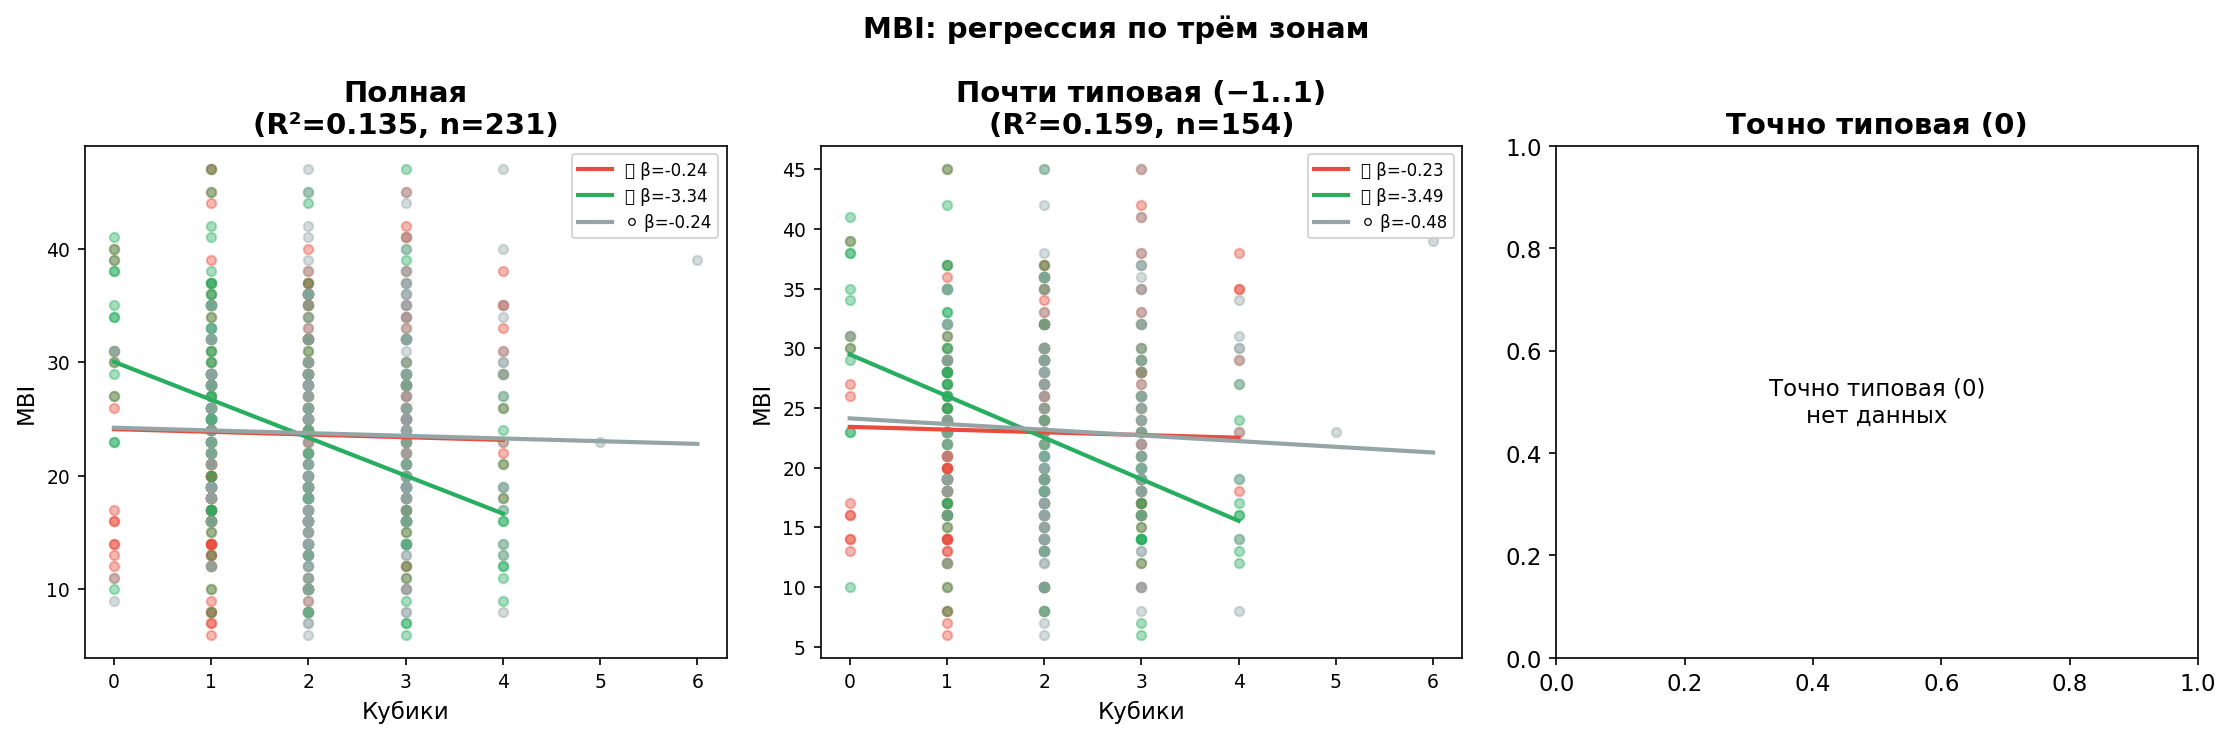
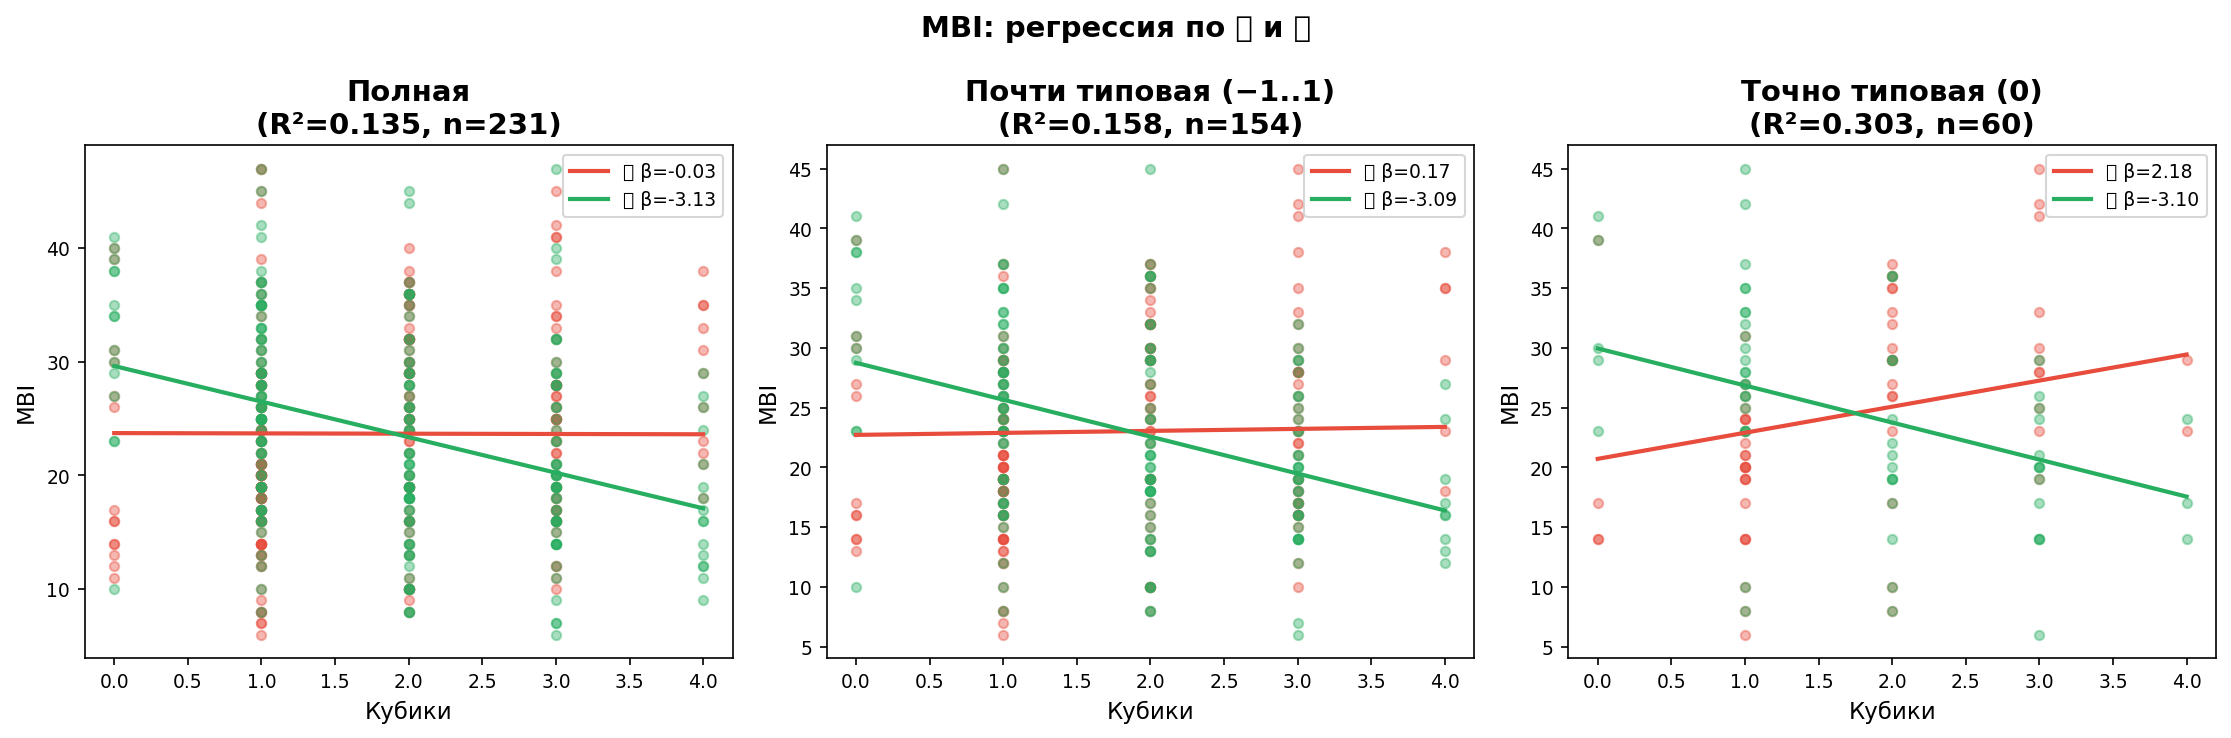
Подчистил отчет

diff --git a/Survey-pre-02 (Jedi Boxes Validation)/Survey-Jedi-Boxes-Validation/Analysis/generate_report.py b/Survey-pre-02 (Jedi Boxes Validation)/Survey-Jedi-Boxes-Validation/Analysis/generate_report.py
@@ -115,7 +115,7 @@ HYPOTHESES = {
     'H10': 'Гендерные различия в распределении зон',
     'H11': 'Возрастной тренд: с возрастом доля 🔴 снижается',
     'H12': 'Профиль "Дзен" связан с наименьшим энергетическим дефицитом',
-    'H7a': 'Линейная регрессия: MBI, Прокрастинация и SWLS предсказываются числом всех трёх кубиков (🔴, 🟢, ⚪)',
+    'H7a': 'Линейная регрессия: MBI, Прокрастинация и SWLS предсказываются числом срочных и целевых кубиков (🔴, 🟢)',
     'H10a': 'Владельцы бизнеса и высшее руководство отличаются по распределению кубиков от остальных'
 }
 
@@ -1216,16 +1216,16 @@ class JediBoxesAnalyzer:
     def analyze_h7a_linear_regression(self):
         """
         H7a: Множественная линейная регрессия для предсказания MBI, Прокрастинации и SWLS
-        на основе всех трёх зон (🔴, 🟢, ⚪).
+        на основе двух зон (🔴, 🟢).
 
         Анализ для трёх выборок: полная, почти типовую (-1..1), точно типовую (0).
         """
-        self.add_section("H7a: Линейная регрессия — предсказание по трём зонам", 3)
+        self.add_section("H7a: Линейная регрессия — предсказание по 🔴 и 🟢", 3)
 
         self.add_paragraph(HYPOTHESES['H7a'])
 
         self.add_paragraph("""
-Множественная линейная регрессия: `Шкала = β₀ + β₁×🔴 + β₂×🟢 + β₃×⚪`
+Множественная линейная регрессия: `Шкала = β₀ + β₁×🔴 + β₂×🟢`
 
 Анализ выполняется для трёх подвыборок:
 - **Полная** — все завершённые респонденты
@@ -1255,8 +1255,7 @@ class JediBoxesAnalyzer:
 
         summary_headers = ['Выборка', 'n', 'Показатель', 'R²',
                            'β₀', 'β₁(🔴)', 'p(🔴)',
-                           'β₂(🟢)', 'p(🟢)',
-                           'β₃(⚪)', 'p(⚪)']
+                           'β₂(🟢)', 'p(🟢)']
         summary_rows = []
 
         all_results = {}  # Для графиков
@@ -1264,14 +1263,13 @@ class JediBoxesAnalyzer:
         for sample_name, df in samples:
             n = len(df)
             if n < 10:
-                summary_rows.append([sample_name, str(n), '—', '—', '—', '—', '—', '—', '—', '—', '—'])
+                summary_rows.append([sample_name, str(n), '—', '—', '—', '—', '—', '—', '—'])
                 all_results[sample_name] = None
                 continue
 
             X_r = df['cubes_reactive'].values
             X_g = df['cubes_proactive'].values
-            X_o = df['cubes_operational'].values
-            X = np.column_stack([X_r, X_g, X_o])
+            X = np.column_stack([X_r, X_g])
 
             sample_results = {}
 
@@ -1286,7 +1284,7 @@ class JediBoxesAnalyzer:
                     ss_tot = np.sum((y - np.mean(y)) ** 2)
                     r_squared = 1 - (ss_res / ss_tot)
 
-                    p_num = 3
+                    p_num = 2
                     mse = ss_res / (n - p_num - 1)
                     var_beta = mse * np.linalg.inv(X_int.T @ X_int)
                     se_beta = np.sqrt(np.diag(var_beta))
@@ -1301,15 +1299,14 @@ class JediBoxesAnalyzer:
                         f"{r_squared:.3f}",
                         f"{beta[0]:.2f}",
                         f"{beta[1]:.3f}", f"{p_values[1]:.4f}{sig(p_values[1])}",
-                        f"{beta[2]:.3f}", f"{p_values[2]:.4f}{sig(p_values[2])}",
-                        f"{beta[3]:.3f}", f"{p_values[3]:.4f}{sig(p_values[3])}"
+                        f"{beta[2]:.3f}", f"{p_values[2]:.4f}{sig(p_values[2])}"
                     ])
 
                     sample_results[target_col] = {
                         'beta': beta, 'r2': r_squared, 'p': p_values, 'n': n
                     }
-                except:
-                    summary_rows.append([sample_name, str(n), target_name, 'Ошибка'] + ['—']*7)
+                except Exception as e:
+                    summary_rows.append([sample_name, str(n), target_name, f'Ошибка: {e}'] + ['—']*5)
                     sample_results[target_col] = None
 
             all_results[sample_name] = sample_results
@@ -1318,7 +1315,6 @@ class JediBoxesAnalyzer:
         self.add_paragraph(f"*Значимость: *** p<0.001, ** p<0.01, * p<0.05*")
 
         # ==================== ГРАФИКИ ====================
-        # Для каждого показателя — один subplot с тремя линиями (выборками)
         for target_col, target_name in targets:
             fig, axes = plt.subplots(1, 3, figsize=(15, 5))
 
@@ -1335,41 +1331,32 @@ class JediBoxesAnalyzer:
                 beta = r_data['beta']
                 r2 = r_data['r2']
 
-                # Scatter по каждой зоне
                 X_r = df['cubes_reactive'].values
                 X_g = df['cubes_proactive'].values
-                X_o = df['cubes_operational'].values
                 y = df[target_col].values
 
-                # Средние значения для фиксации других предикторов
-                mean_r, mean_g, mean_o = X_r.mean(), X_g.mean(), X_o.mean()
+                mean_r, mean_g = X_r.mean(), X_g.mean()
 
                 # 🔴
                 x_line = np.linspace(X_r.min(), X_r.max(), 50)
-                y_line = beta[0] + beta[1]*x_line + beta[2]*mean_g + beta[3]*mean_o
+                y_line = beta[0] + beta[1]*x_line + beta[2]*mean_g
                 ax.scatter(X_r, y, alpha=0.4, color='#e74c3c', s=20)
                 ax.plot(x_line, y_line, '#e74c3c', linewidth=2, label=f'🔴 β={beta[1]:.2f}')
 
                 # 🟢
                 x_line = np.linspace(X_g.min(), X_g.max(), 50)
-                y_line = beta[0] + beta[1]*mean_r + beta[2]*x_line + beta[3]*mean_o
+                y_line = beta[0] + beta[1]*mean_r + beta[2]*x_line
                 ax.scatter(X_g, y, alpha=0.4, color='#27ae60', s=20)
                 ax.plot(x_line, y_line, '#27ae60', linewidth=2, label=f'🟢 β={beta[2]:.2f}')
-
-                # ⚪
-                x_line = np.linspace(X_o.min(), X_o.max(), 50)
-                y_line = beta[0] + beta[1]*mean_r + beta[2]*mean_g + beta[3]*x_line
-                ax.scatter(X_o, y, alpha=0.4, color='#95a5a6', s=20)
-                ax.plot(x_line, y_line, '#95a5a6', linewidth=2, label=f'⚪ β={beta[3]:.2f}')
 
                 ax.set_title(f'{sample_name}\n(R²={r2:.3f}, n={r_data["n"]})', fontproperties=TITLE_FONT)
                 ax.set_xlabel('Кубики', fontproperties=LABEL_FONT)
                 ax.set_ylabel(target_name, fontproperties=LABEL_FONT)
-                ax.legend(prop={'size': 8})
+                ax.legend(prop={'size': 9})
                 for label in ax.get_xticklabels() + ax.get_yticklabels():
                     label.set_fontproperties(TICK_FONT)
 
-            plt.suptitle(f'{target_name}: регрессия по трём зонам', fontproperties=TITLE_FONT)
+            plt.suptitle(f'{target_name}: регрессия по 🔴 и 🟢', fontproperties=TITLE_FONT)
             plt.tight_layout()
             path = self.save_figure(f'h7a_{target_col}')
             self.add_paragraph(f"\n![{target_name}](figures/h7a_{target_col}.png)")
@@ -1410,7 +1397,7 @@ class JediBoxesAnalyzer:
                 r = res.get(target_col)
                 if r:
                     sig_zones = []
-                    for zi, zone in [(1, '🔴'), (2, '🟢'), (3, '⚪')]:
+                    for zi, zone in [(1, '🔴'), (2, '🟢')]:
                         if r['p'][zi] < 0.05:
                             sig_zones.append(zone)
                     zones_str = ', '.join(sig_zones) if sig_zones else 'нет значимых'

diff --git a/Survey-pre-02 (Jedi Boxes Validation)/Survey-Jedi-Boxes-Validation/Analysis/jedi_boxes_report.md b/Survey-pre-02 (Jedi Boxes Validation)/Survey-Jedi-Boxes-Validation/Analysis/jedi_boxes_report.md
@@ -1,6 +1,6 @@
 # Отчёт анализа данных опроса "Три коробочки"
 
-**Дата генерации:** 2026-04-06 13:53
+**Дата генерации:** 2026-04-06 14:06
 **Всего респондентов:** 370
 **Завершили опрос:** 231
 
@@ -374,12 +374,12 @@ MBI: по записям = 21.3, по памяти = 24.2 (p=0.098)
 **Вывод**: Результат значим (p < 0.05). Подтверждается
 
 
-### H7a: Линейная регрессия — предсказание по трём зонам
+### H7a: Линейная регрессия — предсказание по 🔴 и 🟢
 
-Линейная регрессия: MBI, Прокрастинация и SWLS предсказываются числом всех трёх кубиков (🔴, 🟢, ⚪)
+Линейная регрессия: MBI, Прокрастинация и SWLS предсказываются числом срочных и целевых кубиков (🔴, 🟢)
 
 
-Множественная линейная регрессия: `Шкала = β₀ + β₁×🔴 + β₂×🟢 + β₃×⚪`
+Множественная линейная регрессия: `Шкала = β₀ + β₁×🔴 + β₂×🟢`
 
 Анализ выполняется для трёх подвыборок:
 - **Полная** — все завершённые респонденты
@@ -390,17 +390,17 @@ MBI: по записям = 21.3, по памяти = 24.2 (p=0.098)
 **Сводная таблица регрессий:**
 
 
-| Выборка | n | Показатель | R² | β₀ | β₁(🔴) | p(🔴) | β₂(🟢) | p(🟢) | β₃(⚪) | p(⚪) |
-| --- | --- | --- | --- | --- | --- | --- | --- | --- | --- | --- |
-| Полная | 231 | MBI | 0.135 | 31.00 | -0.238 | 0.8692 | -3.343 | 0.0206* | -0.237 | 0.8688 |
-| Полная | 231 | Прокрастинация | 0.136 | 0.00 | 5.073 | 0.0000*** | 2.986 | 0.0110* | 4.790 | 0.0001*** |
-| Полная | 231 | SWLS | 0.088 | -0.00 | 3.699 | 0.0009*** | 4.553 | 0.0000*** | 3.042 | 0.0060** |
-| Почти типовая (−1..1) | 154 | MBI | 0.159 | 31.00 | -0.227 | 0.8689 | -3.487 | 0.0117* | -0.477 | 0.7278 |
-| Почти типовая (−1..1) | 154 | Прокрастинация | 0.195 | 0.00 | 5.224 | 0.0000*** | 2.731 | 0.0200* | 4.869 | 0.0000*** |
-| Почти типовая (−1..1) | 154 | SWLS | 0.091 | -0.00 | 3.700 | 0.0019** | 4.414 | 0.0002*** | 3.208 | 0.0066** |
-| Точно типовая (0) | 60 | MBI | Ошибка | — | — | — | — | — | — | — |
-| Точно типовая (0) | 60 | Прокрастинация | Ошибка | — | — | — | — | — | — | — |
-| Точно типовая (0) | 60 | SWLS | Ошибка | — | — | — | — | — | — | — |
+| Выборка | n | Показатель | R² | β₀ | β₁(🔴) | p(🔴) | β₂(🟢) | p(🟢) |
+| --- | --- | --- | --- | --- | --- | --- | --- | --- |
+| Полная | 231 | MBI | 0.135 | 29.68 | -0.026 | 0.9687 | -3.131 | 0.0000*** |
+| Полная | 231 | Прокрастинация | 0.072 | 26.75 | 0.799 | 0.1535 | -1.306 | 0.0153* |
+| Полная | 231 | SWLS | 0.057 | 16.99 | 0.985 | 0.0573 | 1.827 | 0.0003*** |
+| Почти типовая (−1..1) | 154 | MBI | 0.158 | 28.45 | 0.168 | 0.8295 | -3.090 | 0.0001*** |
+| Почти типовая (−1..1) | 154 | Прокрастинация | 0.101 | 26.03 | 1.195 | 0.0889 | -1.324 | 0.0513 |
+| Почти типовая (−1..1) | 154 | SWLS | 0.045 | 17.15 | 1.045 | 0.1248 | 1.742 | 0.0086** |
+| Точно типовая (0) | 60 | MBI | 0.303 | 26.24 | 2.183 | 0.0890 | -3.101 | 0.0090** |
+| Точно типовая (0) | 60 | Прокрастинация | 0.280 | 26.85 | 2.061 | 0.0762 | -2.498 | 0.0192* |
+| Точно типовая (0) | 60 | SWLS | 0.140 | 17.14 | 0.285 | 0.7911 | 2.519 | 0.0121* |
 
 *Значимость: *** p<0.001, ** p<0.01, * p<0.05*
 
@@ -421,15 +421,21 @@ MBI: по записям = 21.3, по памяти = 24.2 (p=0.098)
 
 - Полная, MBI: R²=0.135, значимые: 🟢
 
-- Полная, Прокрастинация: R²=0.136, значимые: 🔴, 🟢, ⚪
+- Полная, Прокрастинация: R²=0.072, значимые: 🟢
 
-- Полная, SWLS: R²=0.088, значимые: 🔴, 🟢, ⚪
+- Полная, SWLS: R²=0.057, значимые: 🟢
 
-- Почти типовая (−1..1), MBI: R²=0.159, значимые: 🟢
+- Почти типовая (−1..1), MBI: R²=0.158, значимые: 🟢
 
-- Почти типовая (−1..1), Прокрастинация: R²=0.195, значимые: 🔴, 🟢, ⚪
+- Почти типовая (−1..1), Прокрастинация: R²=0.101, значимые: нет значимых
 
-- Почти типовая (−1..1), SWLS: R²=0.091, значимые: 🔴, 🟢, ⚪
+- Почти типовая (−1..1), SWLS: R²=0.045, значимые: 🟢
+
+- Точно типовая (0), MBI: R²=0.303, значимые: 🟢
+
+- Точно типовая (0), Прокрастинация: R²=0.280, значимые: 🟢
+
+- Точно типовая (0), SWLS: R²=0.140, значимые: 🟢
 
 
 ### H10a: Владельцы бизнеса и высшее руководство
